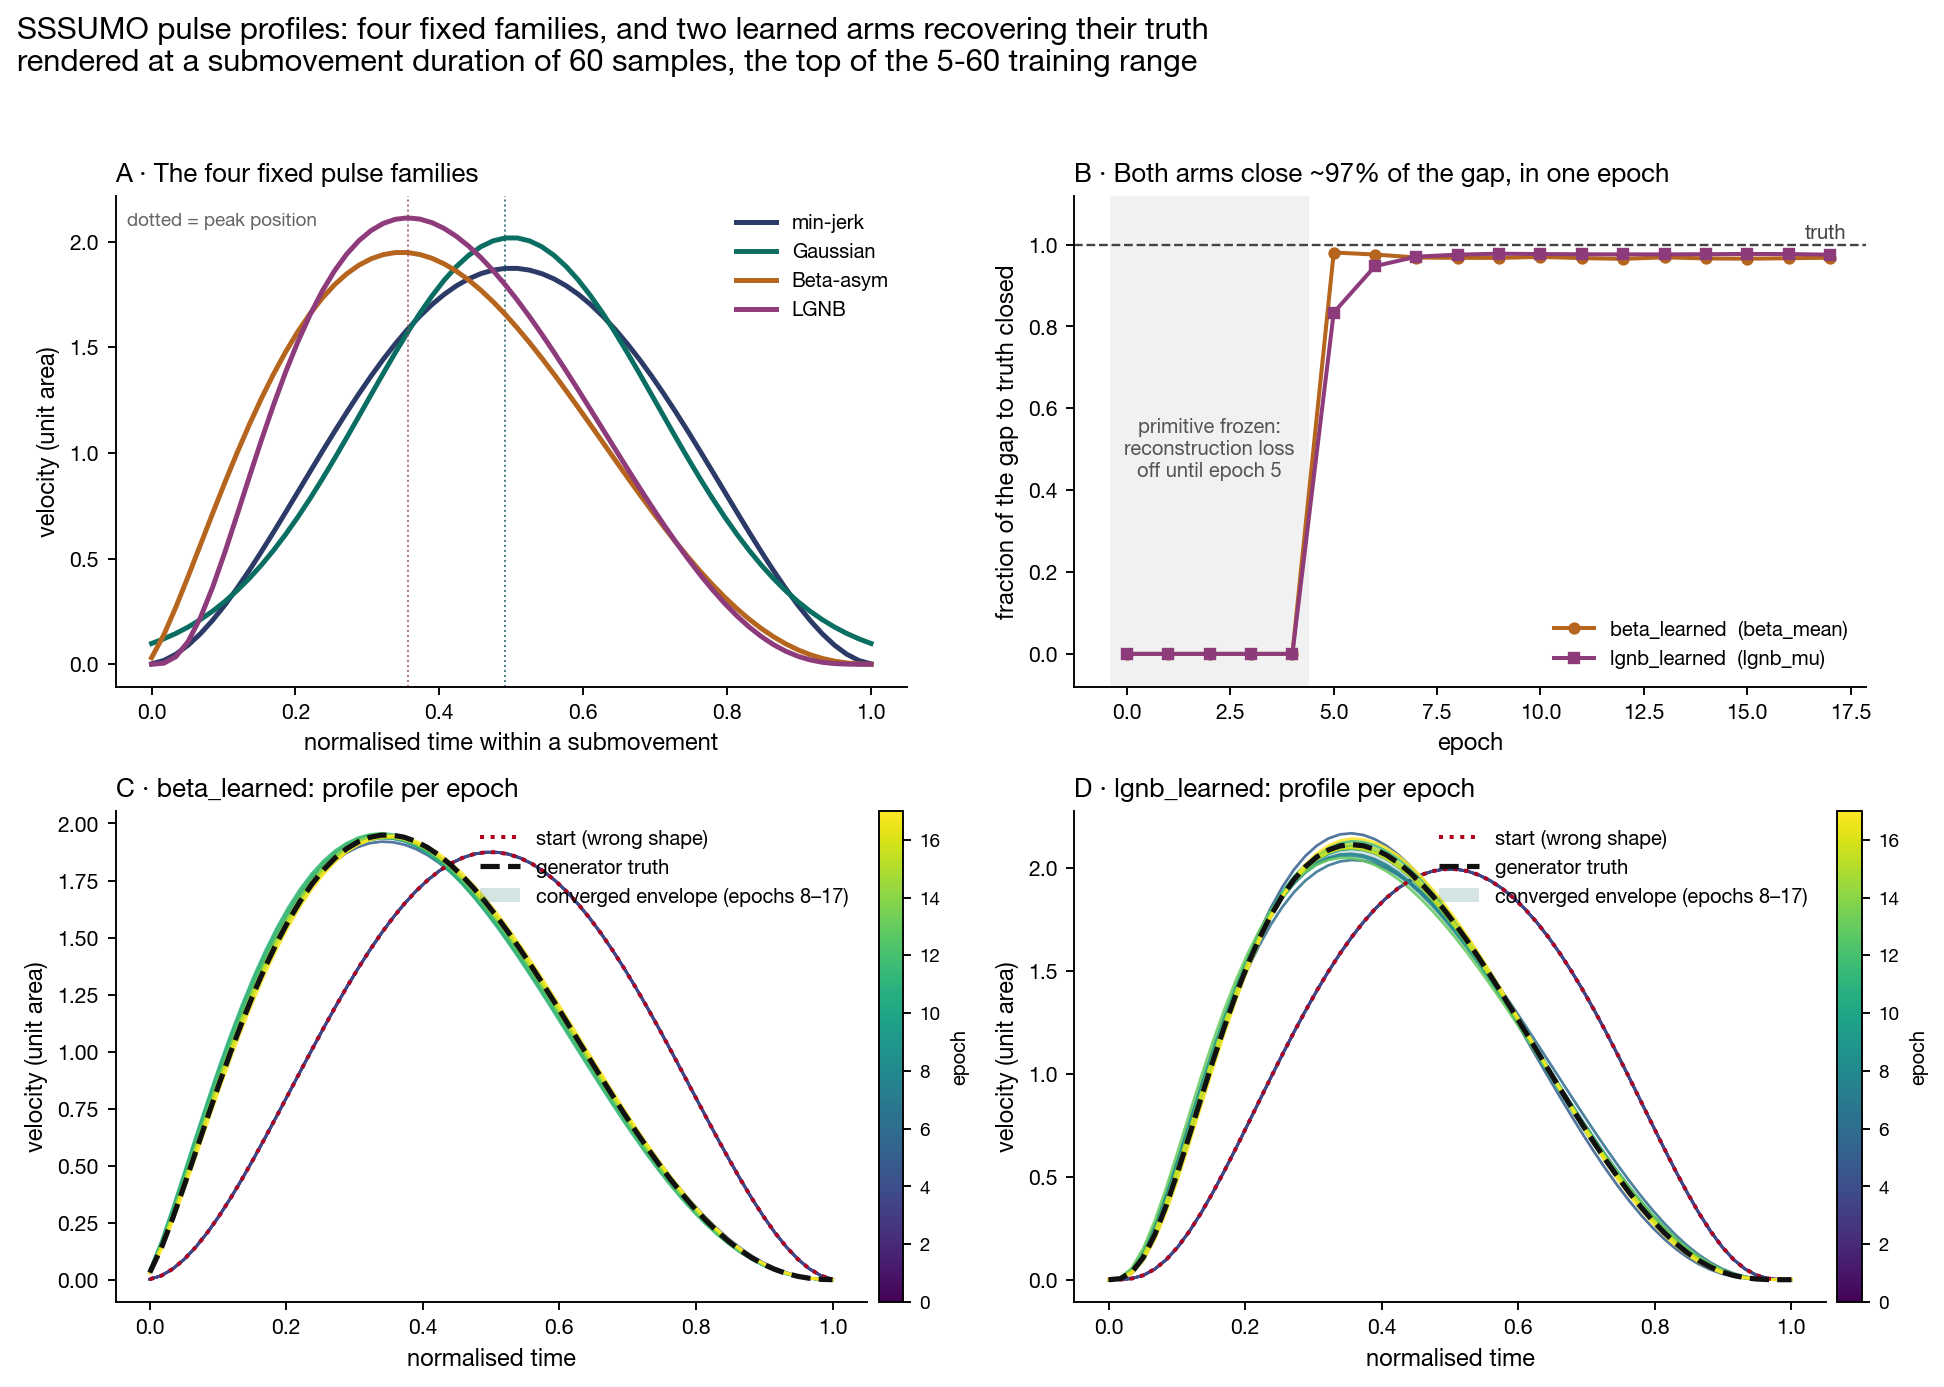
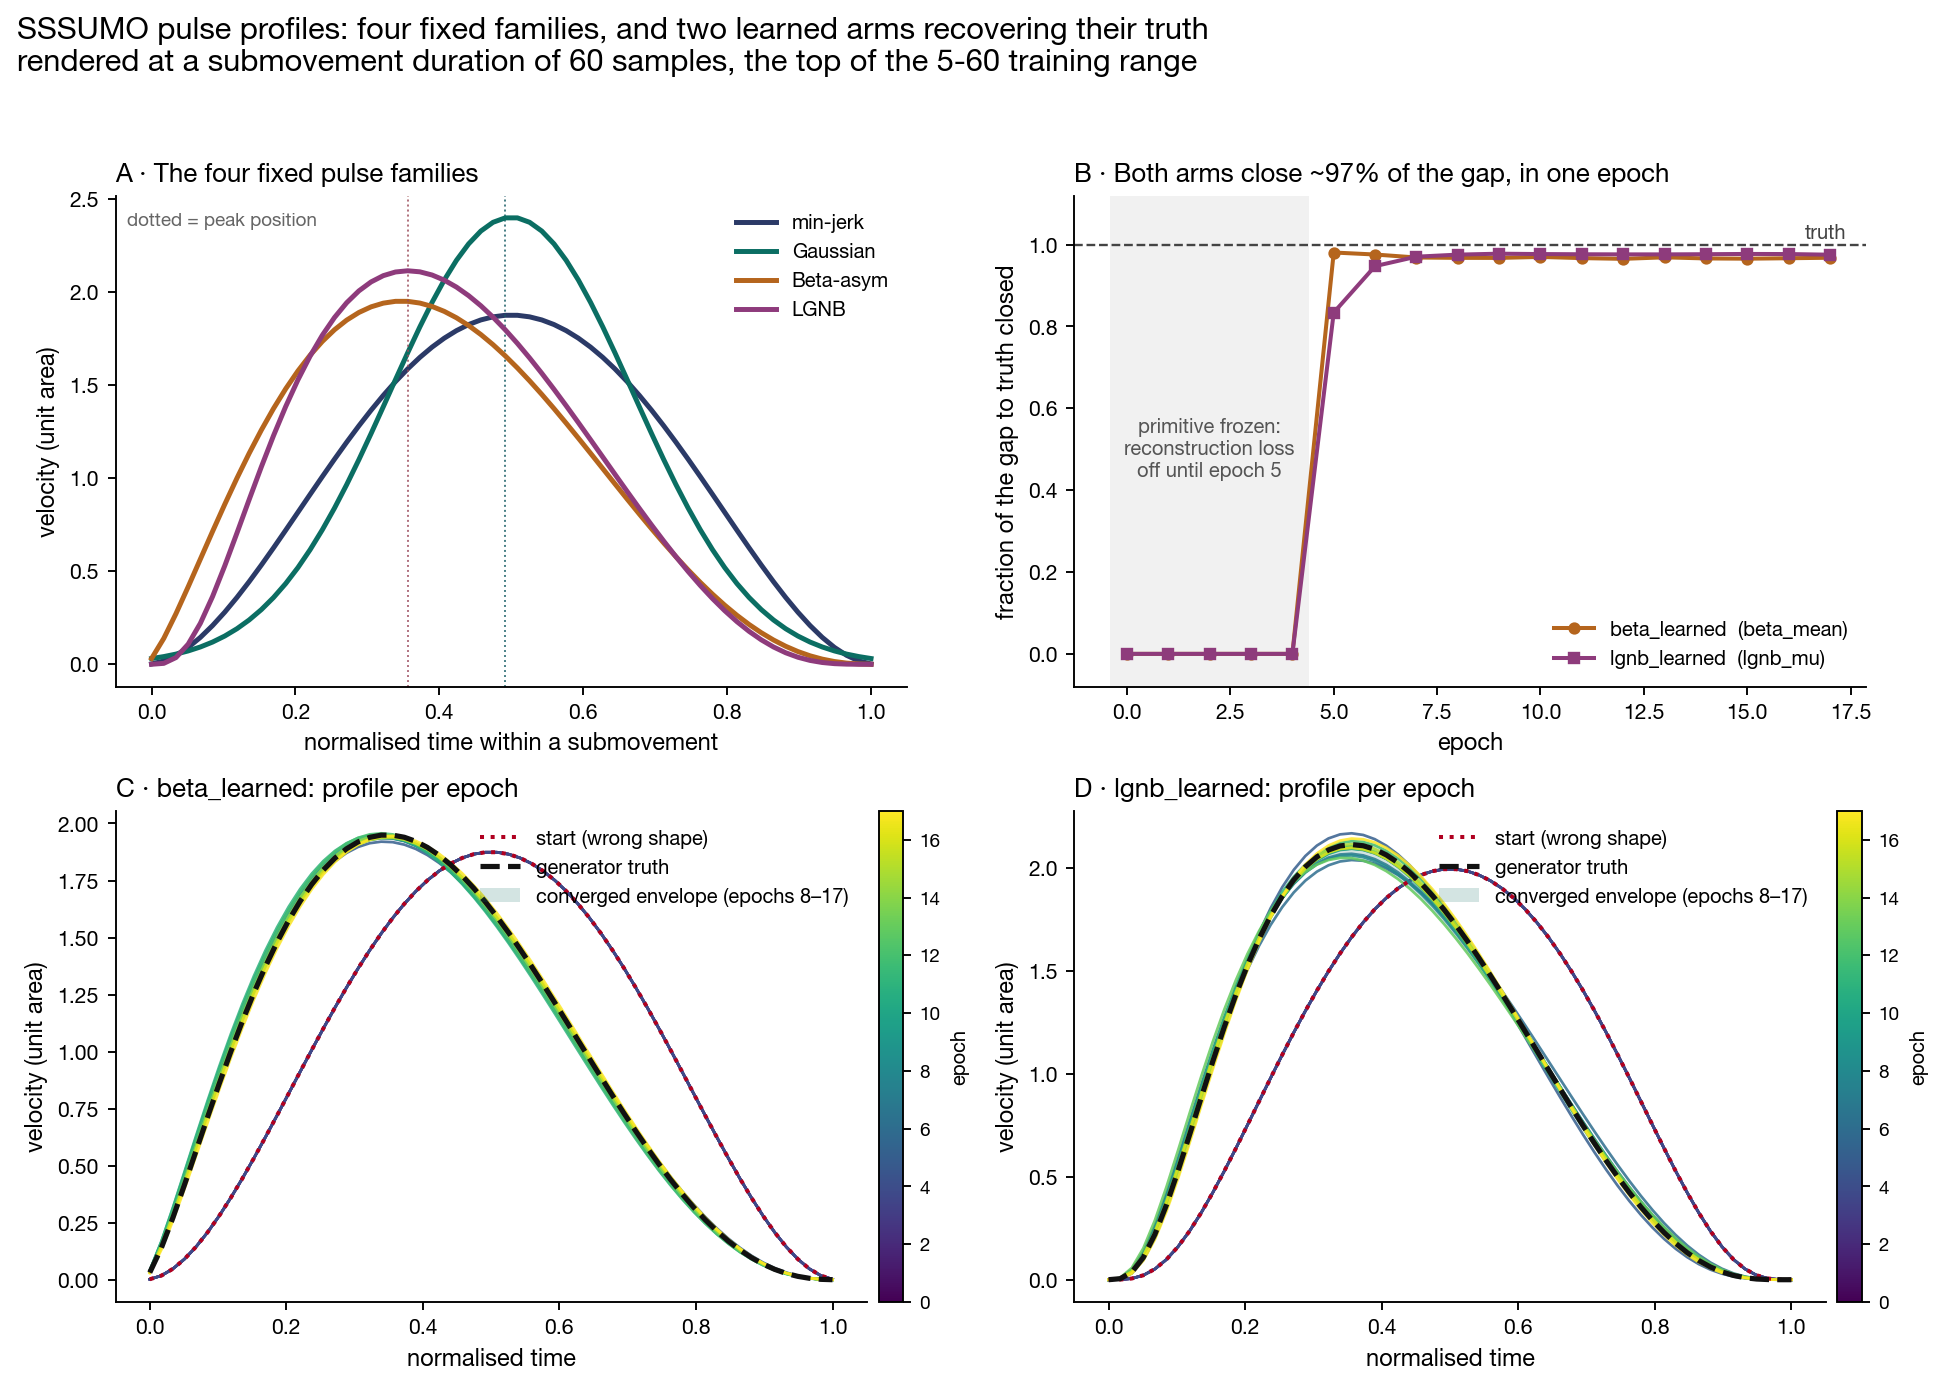
fix(plot): the Gaussian arm is truncated at 3 sigma, not the class default 2.5
The figure hardcoded ContinuousPrimitive's default gaussian_half_width of 2.5
while config-0901-family_gaussian.yaml sets 3.0, so it drew a Gaussian wider
and flatter than the one the study actually trained on -- and one whose
truncation discontinuity at the support edge was four times too large (4.4% of
peak instead of 1.1%).

Every family is now read from its own config file rather than retyped in the
plotting script, which is the only version of this that cannot drift.

Changed region(s): [[0.0617, 0.155, 0.4321, 0.496], [0.0309, 0.403, 0.0617, 0.434]]

diff --git a/scripts/colab/plot_profiles.py b/scripts/colab/plot_profiles.py
@@ -37,12 +37,29 @@ def profile(family, **kw):
     return s, v * len(v)          # density on normalised time (unit area)
 
 
-FIXED = {
-    "min-jerk":  ("beta",  dict(beta_mean=(0.5, 0.), beta_precision=(6., 0.))),
-    "Gaussian":  ("gaussian", dict(gaussian_centre=(0.5, 0.), gaussian_half_width=(2.5, 0.))),
-    "Beta-asym": ("beta",  dict(beta_mean=(0.40, 0.), beta_precision=(6., 0.))),
-    "LGNB":      ("lgnb",  dict(lgnb_mu=(-0.40, 0.), lgnb_sigma=(0.8, 0.))),
-}
+# Read every family from its own config rather than retyping the numbers here: the
+# first version of this figure hardcoded the class default half_width of 2.5 while the
+# study's Gaussian arm uses 3.0, and drew the wrong pulse.
+import yaml
+
+ARM_LABEL = {"minjerk": "min-jerk", "gaussian": "Gaussian",
+             "beta_asym": "Beta-asym", "lgnb": "LGNB"}
+PARAMS = {"beta": ("beta_mean", "beta_precision"),
+          "gaussian": ("gaussian_centre", "gaussian_half_width"),
+          "lgnb": ("lgnb_mu", "lgnb_sigma")}
+
+
+def from_config(arm):
+    cfg = yaml.safe_load(open(f"configs/config-0901-family_{arm}.yaml"))["primitive"]
+    fam = cfg["primitive_family"]
+    kw = {k: tuple(cfg[f"primitive_{k}"]) for k in PARAMS[fam]}
+    return fam, kw
+
+
+FIXED = {ARM_LABEL[a]: from_config(a) for a in ARM_LABEL}
+for n, (f, kw) in FIXED.items():
+    print(f"  {n:10s} {f:9s} {kw}")
+
 COL = {"min-jerk": "#2B3A67", "Gaussian": "#0B6E63",
        "Beta-asym": "#B5651D", "LGNB": "#8E3B7C"}
 
